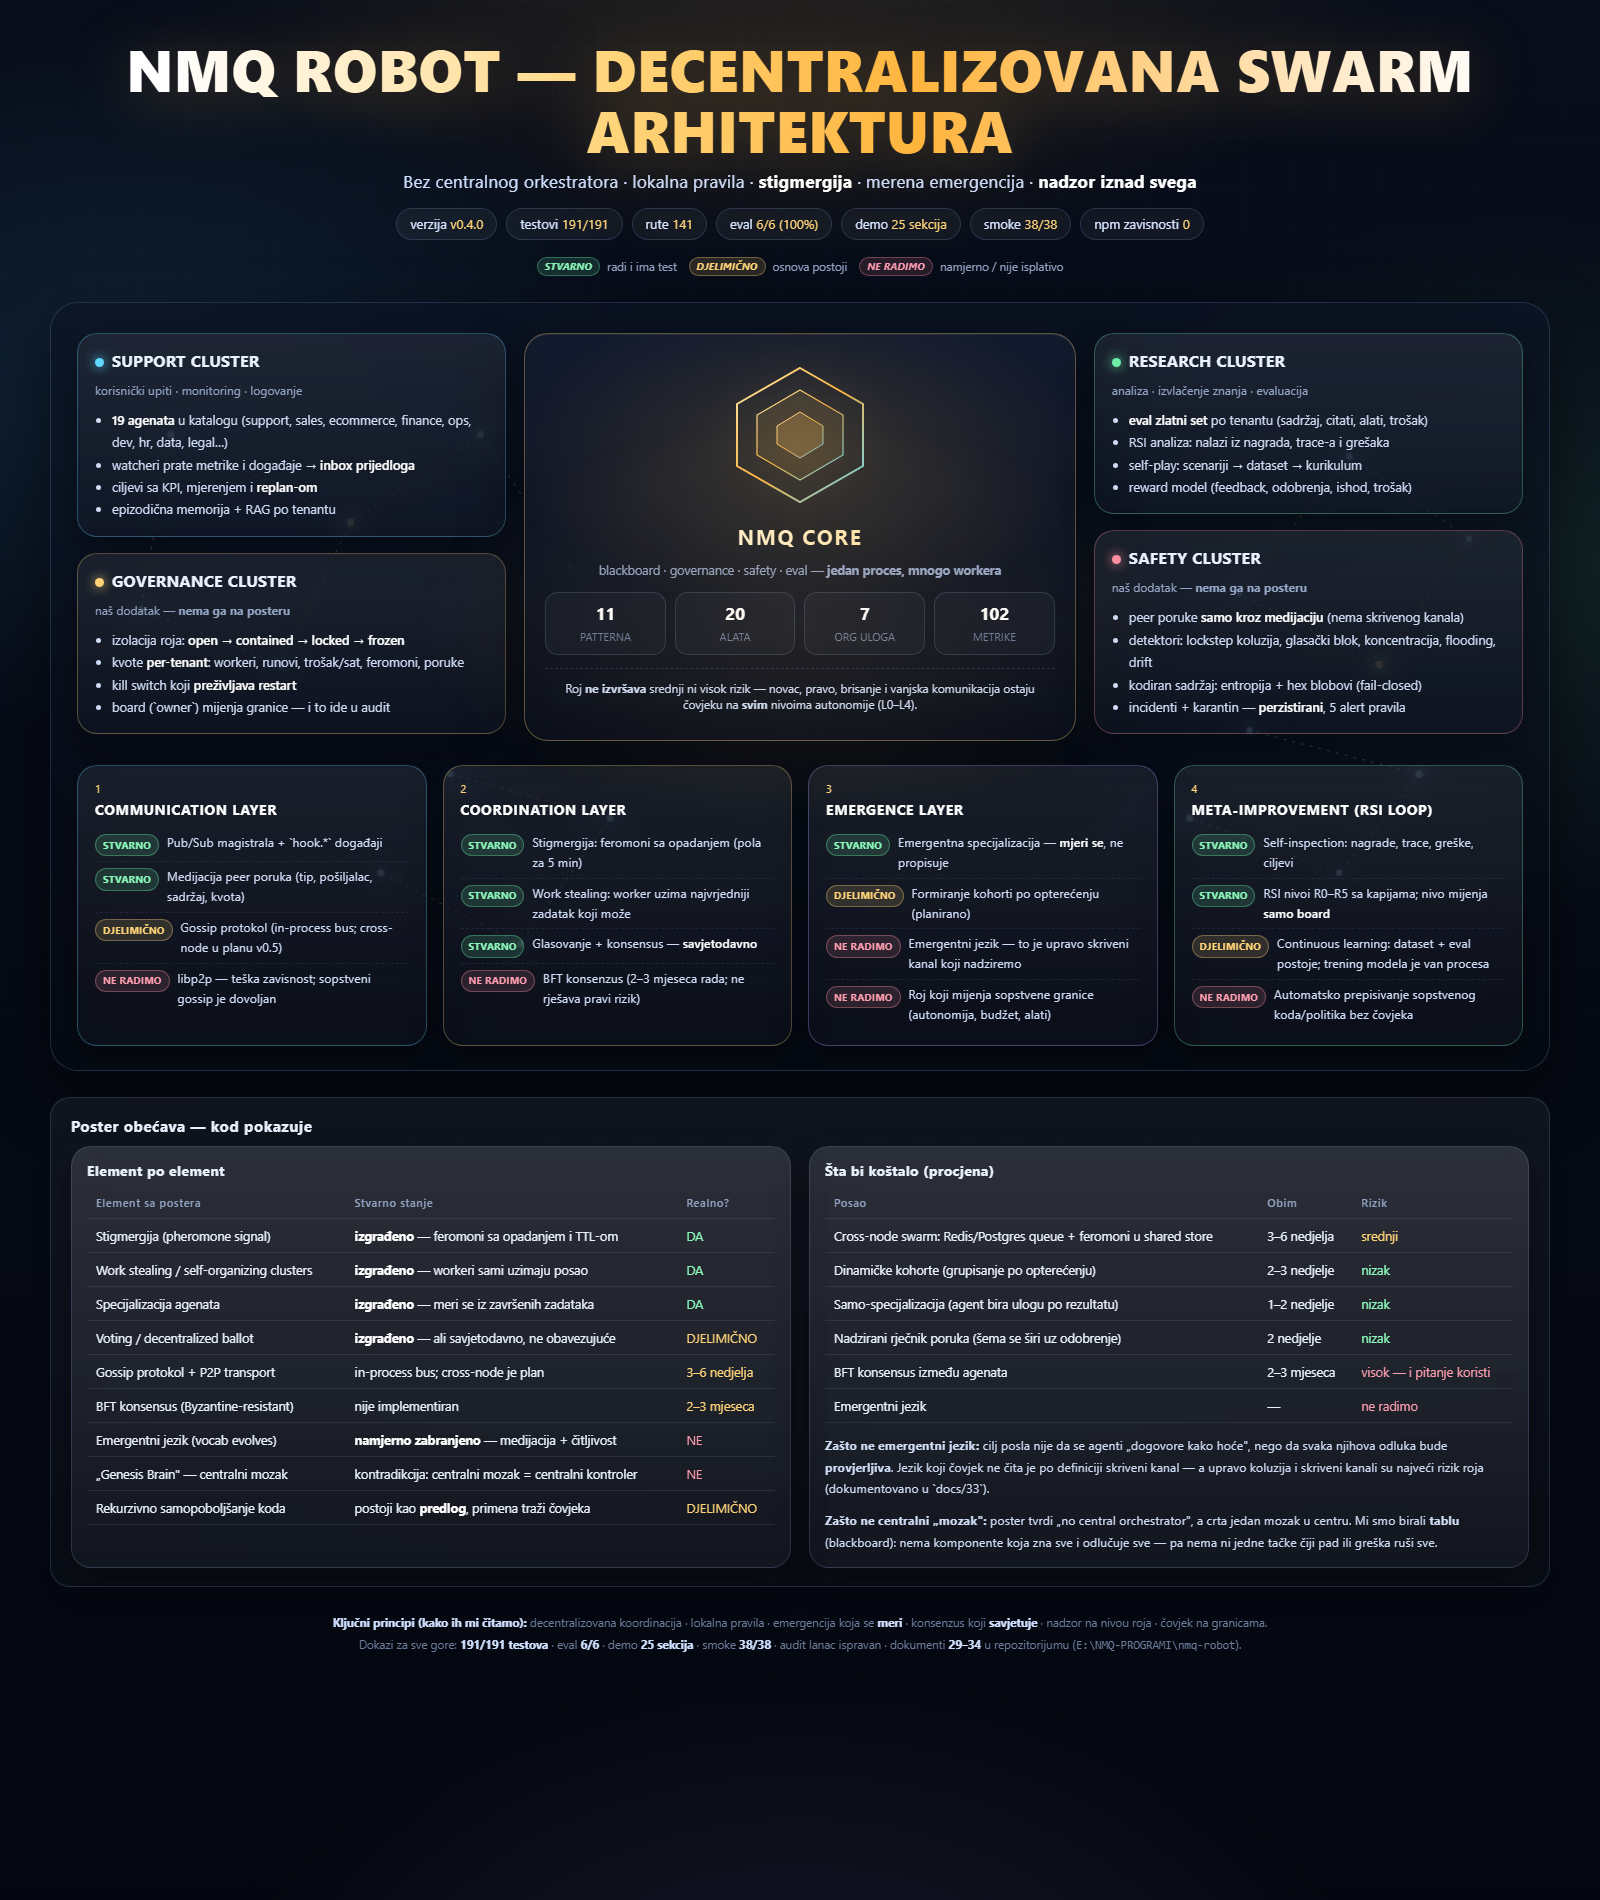
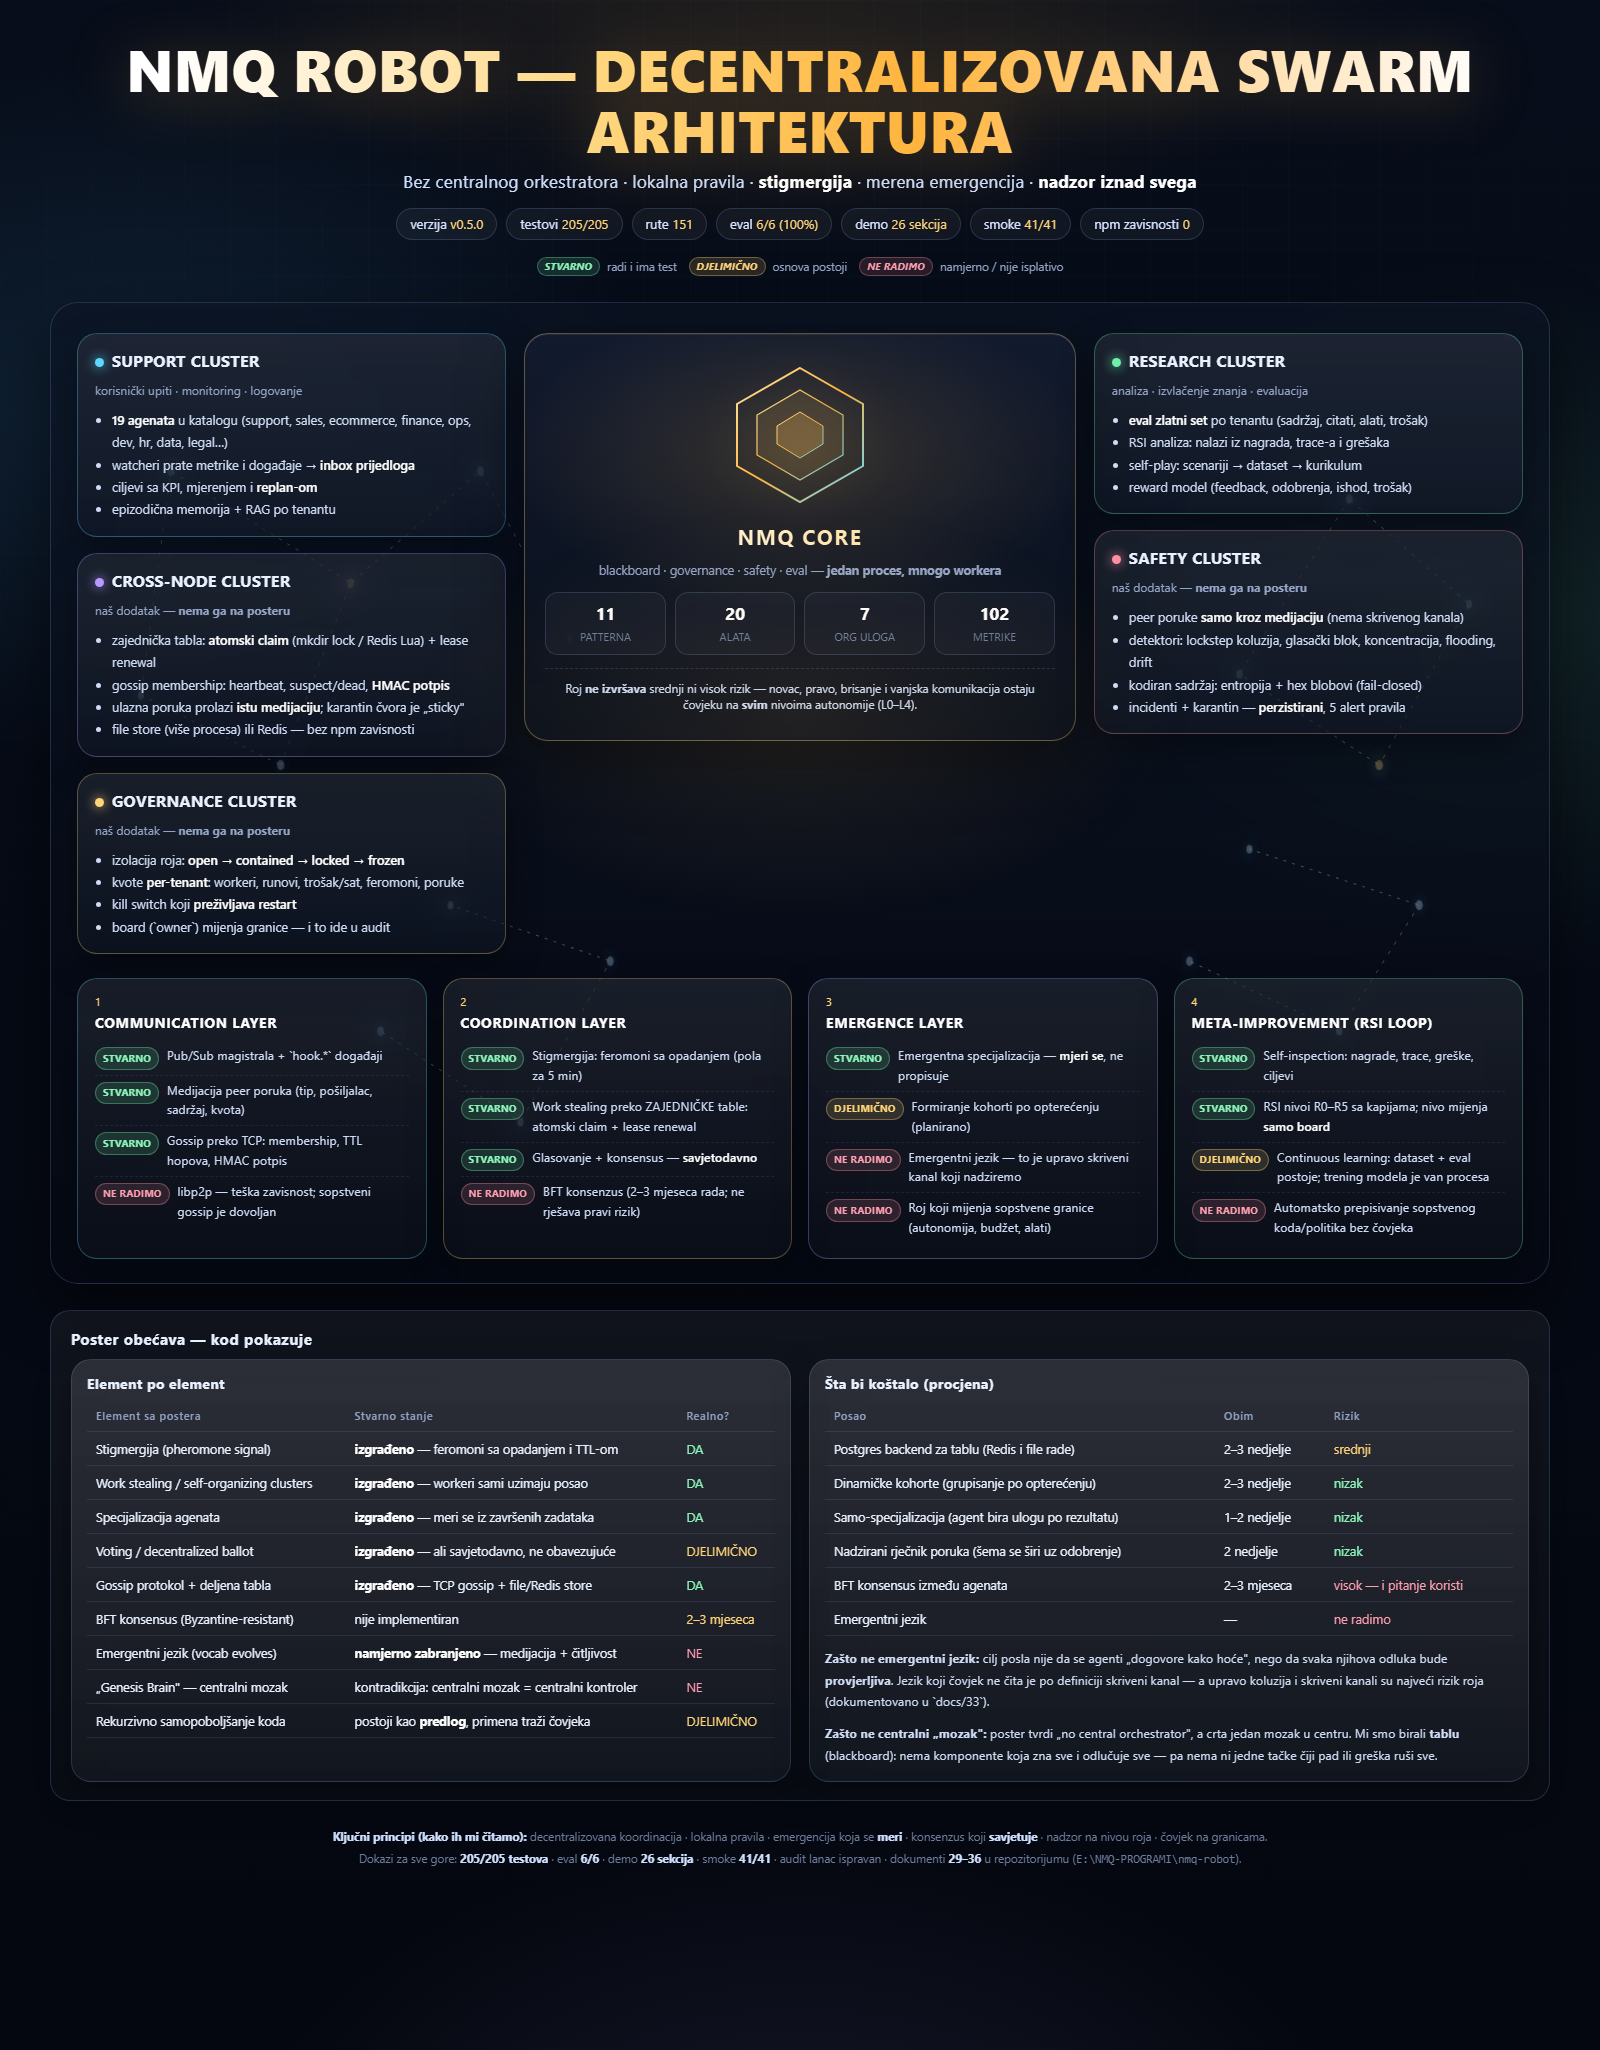
docs: poster azuriran na v0.5.0 (cross-node klaster)
- docs/35-SWARM-ARHITEKTURA-VIZUAL.html: verzija v0.5.0, testovi 205/205, rute 151, demo 26, smoke 41/41;
  nova kartica CROSS-NODE CLUSTER (atomski claim + lease renewal, gossip sa HMAC, medijacija na ulazu);
  communication layer: gossip je sada STVARNO (TCP), a ne "u planu"; tabela "poster obecava" azurirana
- docs/35-swarm-arhitektura.png: novi render

diff --git a/docs/35-SWARM-ARHITEKTURA-VIZUAL.html b/docs/35-SWARM-ARHITEKTURA-VIZUAL.html
@@ -3,7 +3,7 @@
 <head>
 <meta charset="utf-8" />
 <meta name="viewport" content="width=device-width, initial-scale=1" />
-<title>NMQ Robot — decentralizovana swarm arhitektura (stvarno stanje v0.4.0)</title>
+<title>NMQ Robot — decentralizovana swarm arhitektura (stvarno stanje v0.5.0)</title>
 <style>
   :root{
     --bg:#04070f; --bg2:#070d1a; --ink:#eaf1ff; --muted:#93a4c4; --dim:#6d7d9c;
@@ -156,12 +156,12 @@
     <h1>NMQ ROBOT — DECENTRALIZOVANA SWARM ARHITEKTURA</h1>
     <p class="sub">Bez centralnog orkestratora · lokalna pravila · <b>stigmergija</b> · merena emergencija · <b>nadzor iznad svega</b></p>
     <div class="meta-chips">
-      <span class="chip">verzija <i>v0.4.0</i></span>
-      <span class="chip">testovi <i>191/191</i></span>
-      <span class="chip">rute <i>141</i></span>
+      <span class="chip">verzija <i>v0.5.0</i></span>
+      <span class="chip">testovi <i>205/205</i></span>
+      <span class="chip">rute <i>151</i></span>
       <span class="chip">eval <i>6/6 (100%)</i></span>
-      <span class="chip">demo <i>25 sekcija</i></span>
-      <span class="chip">smoke <i>38/38</i></span>
+      <span class="chip">demo <i>26 sekcija</i></span>
+      <span class="chip">smoke <i>41/41</i></span>
       <span class="chip">npm zavisnosti <i>0</i></span>
     </div>
     <div class="legend">
@@ -214,6 +214,16 @@
             <li>watcheri prate metrike i događaje → <b>inbox prijedloga</b></li>
             <li>ciljevi sa KPI, mjerenjem i <b>replan-om</b></li>
             <li>epizodična memorija + RAG po tenantu</li>
+          </ul>
+        </div>
+        <div class="card accent-violet">
+          <div class="dotline"><span class="dot v"></span><h3>CROSS-NODE CLUSTER</h3></div>
+          <p class="tag">naš dodatak — <b>nema ga na posteru</b></p>
+          <ul>
+            <li>zajednička tabla: <b>atomski claim</b> (mkdir lock / Redis Lua) + lease renewal</li>
+            <li>gossip membership: heartbeat, suspect/dead, <b>HMAC potpis</b></li>
+            <li>ulazna poruka prolazi <b>istu medijaciju</b>; karantin čvora je „sticky"</li>
+            <li>file store (više procesa) ili Redis — bez npm zavisnosti</li>
           </ul>
         </div>
         <div class="card accent-gold">
@@ -284,7 +294,7 @@
         <ul>
           <li><span class="st ok">STVARNO</span><span>Pub/Sub magistrala + `hook.*` događaji</span></li>
           <li><span class="st ok">STVARNO</span><span>Medijacija peer poruka (tip, pošiljalac, sadržaj, kvota)</span></li>
-          <li><span class="st part">DJELIMIČNO</span><span>Gossip protokol (in-process bus; cross-node u planu v0.5)</span></li>
+          <li><span class="st ok">STVARNO</span><span>Gossip preko TCP: membership, TTL hopova, HMAC potpis</span></li>
           <li><span class="st no">NE RADIMO</span><span>libp2p — teška zavisnost; sopstveni gossip je dovoljan</span></li>
         </ul>
       </div>
@@ -293,7 +303,7 @@
         <h4>COORDINATION LAYER</h4>
         <ul>
           <li><span class="st ok">STVARNO</span><span>Stigmergija: feromoni sa opadanjem (pola za 5 min)</span></li>
-          <li><span class="st ok">STVARNO</span><span>Work stealing: worker uzima najvrjedniji zadatak koji može</span></li>
+          <li><span class="st ok">STVARNO</span><span>Work stealing preko ZAJEDNIČKE table: atomski claim + lease renewal</span></li>
           <li><span class="st ok">STVARNO</span><span>Glasovanje + konsensus — <b>savjetodavno</b></span></li>
           <li><span class="st no">NE RADIMO</span><span>BFT konsenzus (2–3 mjeseca rada; ne rješava pravi rizik)</span></li>
         </ul>
@@ -334,7 +344,7 @@
             <tr><td>Work stealing / self-organizing clusters</td><td><b>izgrađeno</b> — workeri sami uzimaju posao</td><td class="good">DA</td></tr>
             <tr><td>Specijalizacija agenata</td><td><b>izgrađeno</b> — meri se iz završenih zadataka</td><td class="good">DA</td></tr>
             <tr><td>Voting / decentralized ballot</td><td><b>izgrađeno</b> — ali savjetodavno, ne obavezujuće</td><td class="warn">DJELIMIČNO</td></tr>
-            <tr><td>Gossip protokol + P2P transport</td><td>in-process bus; cross-node je plan</td><td class="warn">3–6 nedjelja</td></tr>
+            <tr><td>Gossip protokol + deljena tabla</td><td><b>izgrađeno</b> — TCP gossip + file/Redis store</td><td class="good">DA</td></tr>
             <tr><td>BFT konsensus (Byzantine-resistant)</td><td>nije implementiran</td><td class="warn">2–3 mjeseca</td></tr>
             <tr><td>Emergentni jezik (vocab evolves)</td><td><b>namjerno zabranjeno</b> — medijacija + čitljivost</td><td class="bad">NE</td></tr>
             <tr><td>„Genesis Brain" — centralni mozak</td><td>kontradikcija: centralni mozak = centralni kontroler</td><td class="bad">NE</td></tr>
@@ -347,7 +357,7 @@
         <table>
           <thead><tr><th>Posao</th><th>Obim</th><th>Rizik</th></tr></thead>
           <tbody>
-            <tr><td>Cross-node swarm: Redis/Postgres queue + feromoni u shared store</td><td>3–6 nedjelja</td><td class="warn">srednji</td></tr>
+            <tr><td>Postgres backend za tablu (Redis i file rade)</td><td>2–3 nedjelje</td><td class="warn">srednji</td></tr>
             <tr><td>Dinamičke kohorte (grupisanje po opterećenju)</td><td>2–3 nedjelje</td><td class="good">nizak</td></tr>
             <tr><td>Samo-specijalizacija (agent bira ulogu po rezultatu)</td><td>1–2 nedjelje</td><td class="good">nizak</td></tr>
             <tr><td>Nadzirani rječnik poruka (šema se širi uz odobrenje)</td><td>2 nedjelje</td><td class="good">nizak</td></tr>
@@ -372,8 +382,8 @@
   <footer>
     <b>Ključni principi (kako ih mi čitamo):</b> decentralizovana koordinacija · lokalna pravila · emergencija koja se
     <b>meri</b> · konsenzus koji <b>savjetuje</b> · nadzor na nivou roja · čovjek na granicama.<br/>
-    Dokazi za sve gore: <b>191/191 testova</b> · eval <b>6/6</b> · demo <b>25 sekcija</b> · smoke <b>38/38</b> · audit lanac ispravan ·
-    dokumenti <b>29–34</b> u repozitorijumu (<code>E:\NMQ-PROGRAMI\nmq-robot</code>).
+    Dokazi za sve gore: <b>205/205 testova</b> · eval <b>6/6</b> · demo <b>26 sekcija</b> · smoke <b>41/41</b> · audit lanac ispravan ·
+    dokumenti <b>29–36</b> u repozitorijumu (<code>E:\NMQ-PROGRAMI\nmq-robot</code>).
   </footer>
 </div>
 </body>
